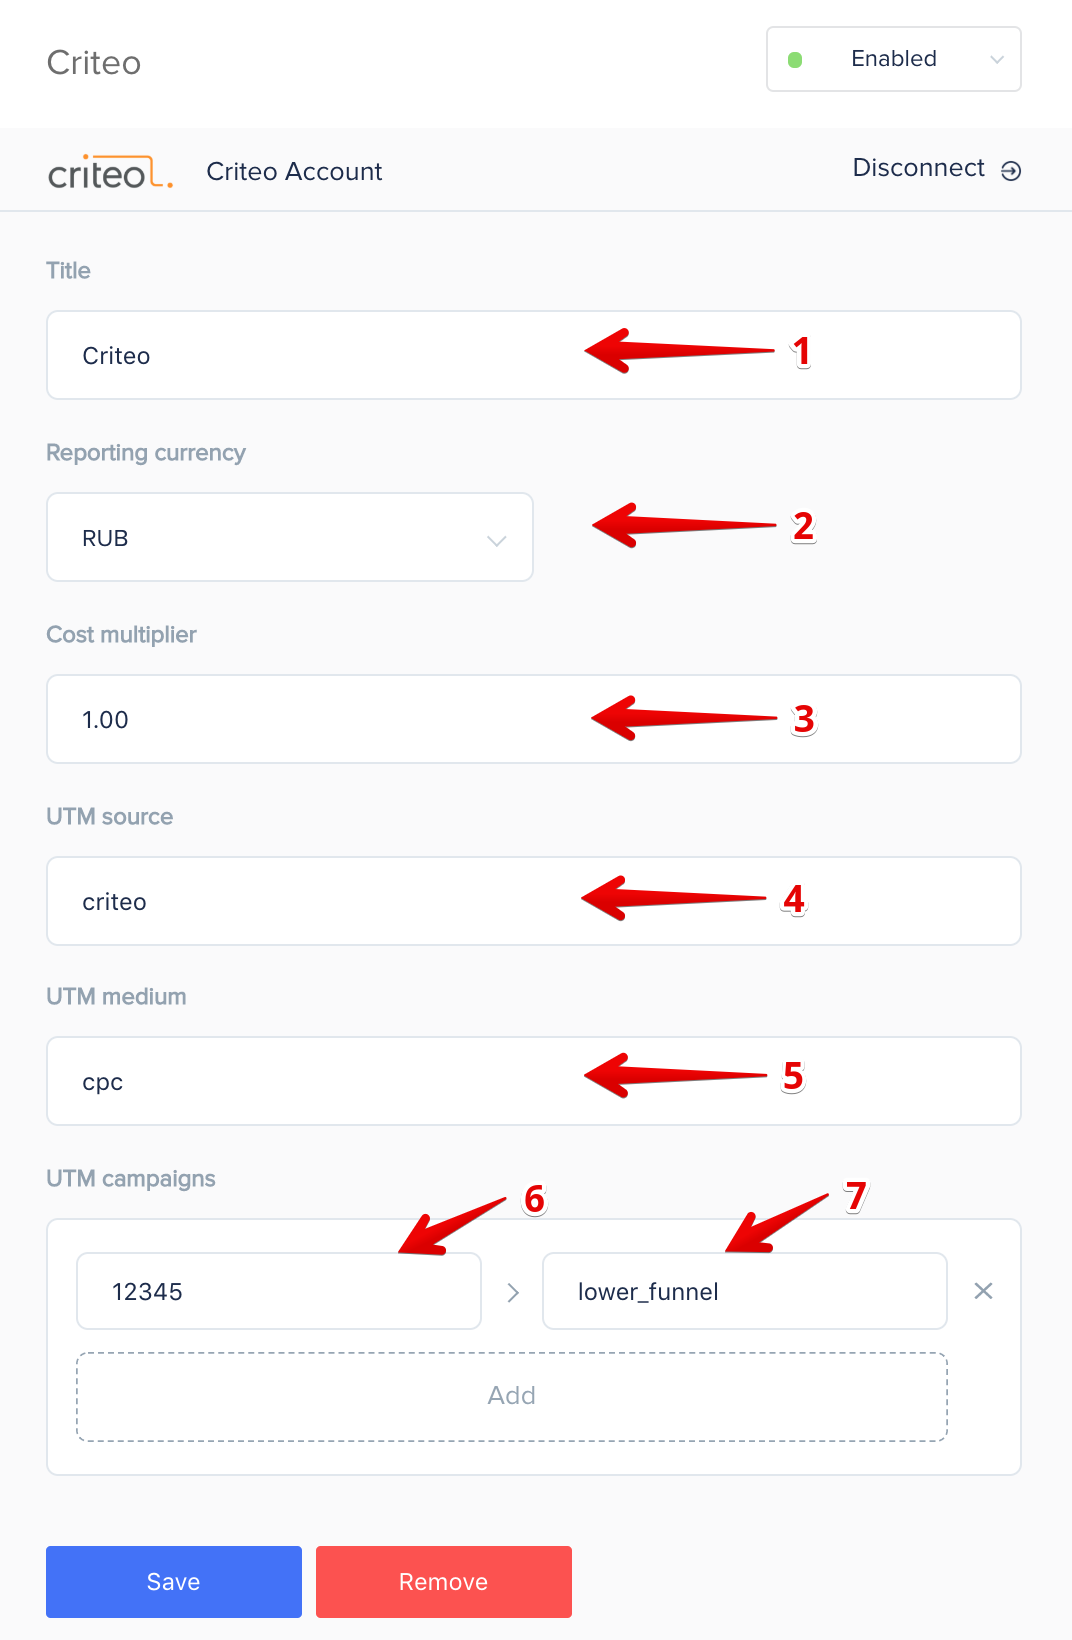
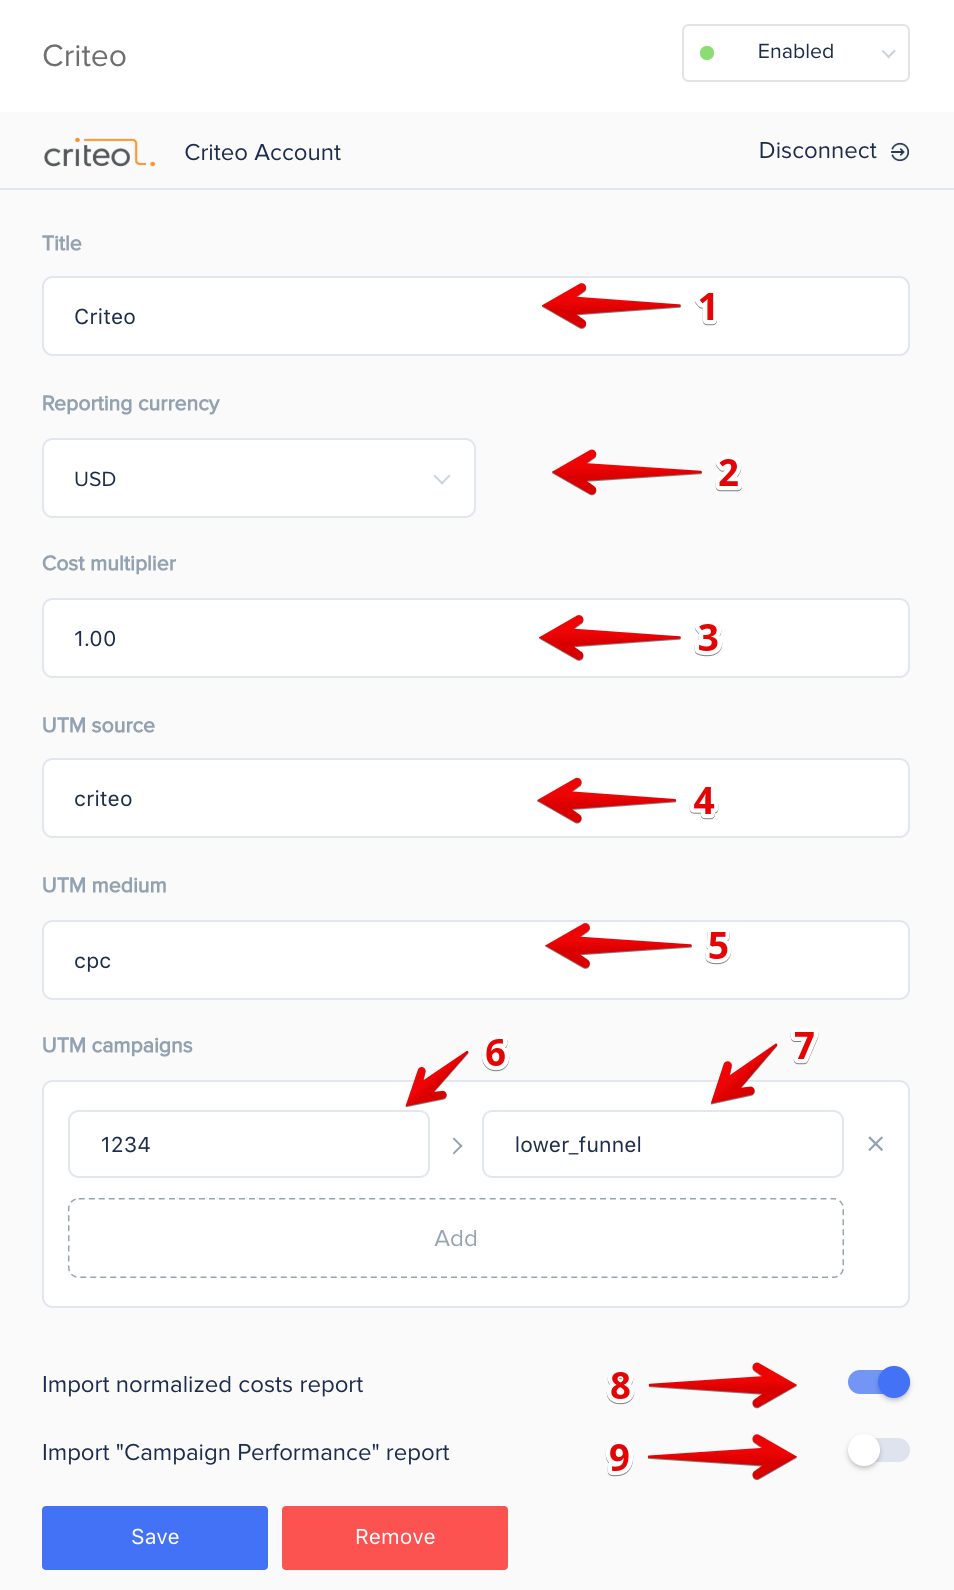
Update criteo docs

diff --git a/_docs/datasources/criteo.md b/_docs/datasources/criteo.md
@@ -37,11 +37,19 @@ After authorization you need to set the data source parameters.
 
 Because there is no possibility to get information about utm tags in the Сriteo API, you need to configure UTM campaigns manually, for this you need to input each campaign ID (6) and its corresponding UTM campaign tag (7).
 
+Import normalized costs report (8) - enable/disable to import normalized costs report.
+
+Import "Campaign Performance" report (9) - enable/disable to import statistics on costs, without normalizing the values in the table.
+
 ## Where to get data on advertising costs
 
-The data for this data source will be written to a table named **criteoCosts_{ADVERTISER_ID}_{YYYYMMDD}**
+The data for normalized costs report will be written to a table named **criteoCosts_{ADVERTISER_ID}_{YYYYMMDD}**
 
-### Table structure
+The data for "Campaign Performance" report will be written to a table named **criteoCampaignPerformance_{ADVERTISER_ID}_{YYYYMMDD}**
+
+### Tables structure
+
+**criteoCosts**
 
 Field name|Type|Mode
 --- | --- | ---
@@ -54,6 +62,17 @@ utmContent | STRING | NULLABLE
 utmMedium | STRING | REQUIRED
 utmSource | STRING | REQUIRED
 currency | STRING | NULLABLE
+
+
+**criteoCampaignPerformance**
+
+Field name|Type|Mode
+--- | --- | ---
+cost | FLOAT | REQUIRED
+impressions | INTEGER | REQUIRED
+clicks | INTEGER | REQUIRED
+campaign_id | INTEGER | REQUIRED
+campaign | STRING | REQUIRED
 
 
 ## <a name="APIAccountCriteo"></a>How to create an API account in Criteo
